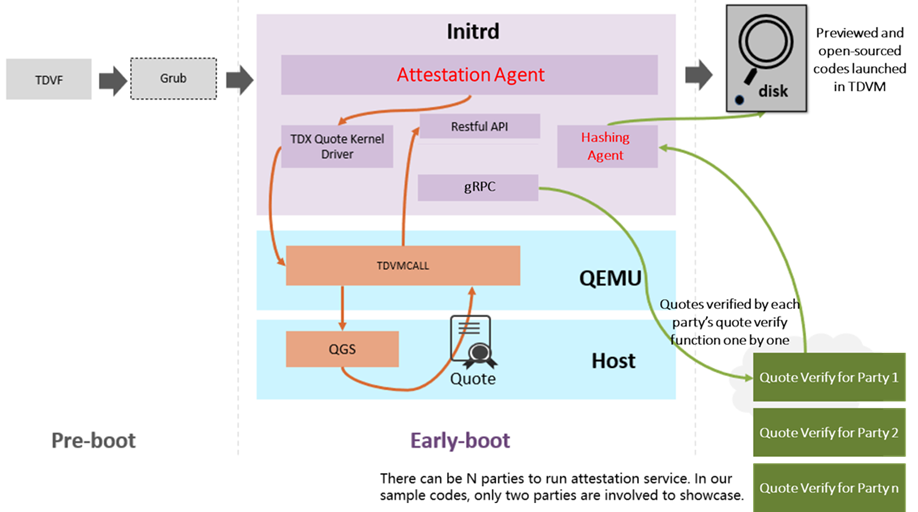
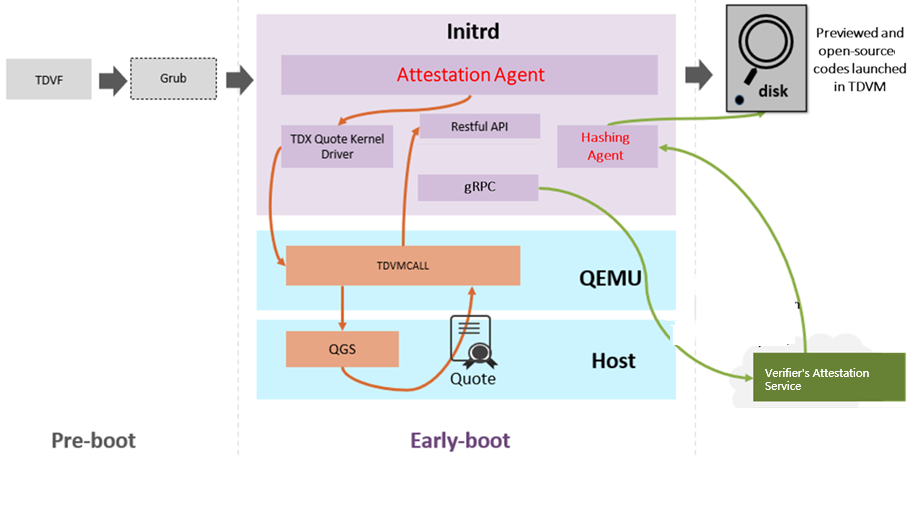
adjust README

Changed region(s): [[0.3965, 0.7188, 1.0, 1.0], [0.732, 0.5625, 0.854, 0.6875]]

diff --git a/README.md b/README.md
@@ -1,9 +1,9 @@
 # VM Trusted Bootup
-For multi-party collaboration scenarios, VTB (VM Trusted Bootup) allows a previewed open-sourced workload to be launched inside TDVM after all parties agree upon the trustiness of a customized work flow pre-loaded in Initrd/Initramfs. It is worth noting that VTB relies on TDX and RTMR check mechanism to achieve this goal.
+To achieve verifiable transparency, VTB (VM Trusted Bootup) enables a pre-reviewed, open-source workload to be launched inside a TDVM after a trusted verifier has confirmed the authenticity and integrity of a customized workflow pre-loaded in Initrd/Initramfs. It is worth noting that VTB leverages TDX and RTMR measurements to accomplish this goal.
 
 ## Overview
 
-There is an existing project: [Full Disk Encryption](https://github.com/cc-api/full-disk-encryption/blob/main), which implemented a method to first decrypt and then load an encrypted disk image in a TDVM. VTB revises the procedure by allowing a previewed open-sourced workload to be trusted and bootup in a TDVM. The reason why unencrypted OS images are needed is because for multi-party scenarios, encrypted OS images are black boxes that no other parties than the image owners can sit assured that they are trusted. Our method mainly refers to the design idea in chapter 14.4.2 in [Intel&reg; TDX Virtual Firmware Design Guide](https://www.intel.com/content/www/us/en/content-details/733585/intel-tdx-virtual-firmware-design-guide.html). It showcases how an open-sourced OS image is launched in a TDVM, which is trusted by all parties. 
+This method primarily draws from the design concepts outlined in Section 14.4.2 of [Intel&reg; TDX Virtual Firmware Design Guide](https://www.intel.com/content/www/us/en/content-details/733585/intel-tdx-virtual-firmware-design-guide.html). Rather than launching an encrypted OS image, this method demonstrates how an open-source OS image is launched within a TDVM, where its authenticity is verified by a trusted verifier to ensure a verifiable launch process. 
 
 
 ### Key Features
@@ -25,15 +25,12 @@ There is an existing project: [Full Disk Encryption](https://github.com/cc-api/f
 sequenceDiagram
     participant GH as VTB Github Portal
     participant CR as Public Clean Room
-    actor P-1 as Party One
-    actor P-2 as Party Two
+    actor P-1 as Trusted Verifier
     actor PR as Public Reviewers
-    Note over GH: Upload a sample OS image containing: <br>1. the data partition disk with a customized TDX attestation service <br>2. Initrd Codes with attestation agent and hashing agent
+    Note over GH: In the portal, a sample OS image containing: <br>1. Initrd with attestation agent and hashing agent<br>2. Root partition with a sample previewed workload
 	GH->>P-1: Download OS image
 	Note over P-1: Review and may modify OS image
-	GH->>P-2: Download OS image
-	Note over P-2: Review and may modify OS image
-	Note over PR: If necessary, all parties invite Public Reviewers to <br>further review OS image including Initrd codes
+	Note over PR: If necessary, may invite Public Reviewers to <br>further review OS image including Initrd codes
     PR->>CR: Once approved, OS image is <br>sent over to clean room for storage
 	Note over CR: OS image is stored for public download
     
@@ -43,39 +40,34 @@ sequenceDiagram
 ```mermaid
 sequenceDiagram
     box rgba(19, 9, 137, 0.5) TDX VM
-      participant IR as Initrd Codes
+      participant IC as Initrd Codes
     end
-    participant P-1 as Party One Attestation Service
-    participant P-2 as Party Two Attestation Service
+    participant P-1 as Verifier's Attestation Service
     participant CR as Clean Room
     actor ADMIN as Operator
 
     rect rgba(230,230,230,0.5)
-        Note over P-1: Start Attestation Service with <br> URL as U-P-1 and certificate as C-P-1
-        P-1->>ADMIN: Send U-P-1 and C-P-1
-        Note over P-2: Start Attestation Service with <br> URL as U-P-2 and certificate as C-P-2
-        P-2->>ADMIN: Send U-P-2 and C-P-2
+        Note over P-1: Start Attestation Service with <br> URL as Url-V and certificate as Cert-V
+        P-1->>ADMIN: Send Url-V and Cert-V
         CR->>ADMIN: Pre-approved OS image is sent
-        Note over ADMIN: Get OS image from clean room, <br>merge URLs and Certificates into Initrd,<br> and get the merged OS image
+        Note over ADMIN: Get OS image from clean room, <br>merge Url-V and Cert-V into Initrd,<br> and get the merged OS image
         ADMIN->>P-1: Send the merged OS image
-        Note over P-1: Calculate data partition disk's hash <br>and expected RTMR in indirect/grub boot mode
-        ADMIN->>P-2: Send the merged OS image
-	    Note over P-2: Calculate data partition disk's hash <br>and expected RTMR in indirect/grub boot mode
-        ADMIN->>IR: Merged OS image is transferred to TDX VM
+        Note over P-1: Calculate root partition's hash Hash-Expected and <br>image's expected RTMR RTMR-Expected in indirect/grub boot mode
+        ADMIN->>IC: Merged OS image is transferred to TDX VM
 	    Note over ADMIN: Run OS image in indirect/grub mode
-        Note over IR: In early-boot stage, <br>Initrd attestation agent is triggered
-        Note over IR: Generate a signing key pair IR-key-pair.<br> Via gRPC, requests quote verification with party one
-        IR->>P-1: 
+        Note over IC: In early-boot stage, <br>Initrd attestation agent triggeres quote verification<br>with Verifier by looking at Url-V
+        Note over IC: 1. Generate a signing key pair IC-key-pair<br>2. Calculate root partition's hash RP-hash<br>Via gRPC, requests quote verification with the Verifier
+        IC->>P-1: 
         Note over P-1: Challenge with nonce
-        P-1->>IR:
-        Note over IR: Generate and send quote with nonce <br>and IR-key-pair public key in reportdata 
-	    IR->>P-1: 
-        Note over P-1: Verify quote against expected RTMR with <br>Intel#174; QAL and send back result as OK and <br>the expected hash locally calculated, <br>both signed by P-1's private key
-	    P-1->>IR: Signed result and expected hash value
-	    Note over IR: Verify result and hash by using <br>P-1's public key in C-P-1, <br>and continue the verification with P-2
-	IR<<->>P-2: Same procedure as that of P-1
-	Note over IR: Once hashes from both P-1 and P-2 are the same, <br>the hash can be considered as the expected hash. <br>It also means both parties agree Initrd codes are trusted. <br>Hashing agent begins to calculate the loaded data partition disk's <br>hash and compare it with the expected one. If OK, <br>then hashing agent ends Initrd session by switching to data partition disk
-    Note over IR: By now, data partition disk is launched, <br>together with the customized attestation service, <br>which is trusted by all parties
+        P-1->>IC:
+        Note over IC: 1. Use IC-key-pair private key to sign RP-hash and nonce <br>2. Generate quote with nonce, IC-hash, <br>and IC-key-pair public key in reportdata 
+	    IC->>P-1: Send quote, signed IC-hash, IC-key-pair certificate
+        Note over P-1: 1. Verify quote against RTMR-Expected by using Intel#174; QAL <br>2. Compare IC-hash with Hash-Expected <br>If OK, sign result as OK by using Verifier's private key  
+	    P-1->>IC: Signed result
+	    Note over IC: Verify result by using Verifier's public key in Cert-V
+        Note over IC: When verifying the result as OK, it means <br> Verifier agrees both Initrd and root partition are authenticated. 
+    Note over IC: Hashing agent ends Initrd session by switching to root partition 
+    Note over IC: By now, previewed workload is launched and trusted by the Verifier
     end	 
     
 ```
@@ -100,16 +92,16 @@ sequenceDiagram
 - [x] Basic quote verification via gRPC
   
 ## Future Work
-- [x] Finish the codes for each party's attestation service
-- [x] Finish the whole VTB process
+- [ ] Finish the codes for Verifier's attestation service
+- [ ] Finish the whole VTB process
 
 ### Security Enhancements
-- [x] Validate RTMR value changes when Initrd codes are changed
-- [x] Evaluate whether the hashing agent can ensure data partition disk is correctly hashed and intact during bootup
+- [ ] Validate RTMR value changes when Initrd codes are changed
+- [ ] Evaluate whether the hashing agent can ensure data partition disk is correctly hashed and intact during bootup
   
 ### Architectural Improvements
-- [x] Use TDVF CFV to configure and preload all parties' URLs and Certificates
-- [x] Use RA-TLS for quote verification
+- [ ] Use TDVF CFV to configure and preload Verifier's URL and Certificate
+- [ ] Use RA-TLS for quote verification
 
 
 ## Design Considerations for Future Versions